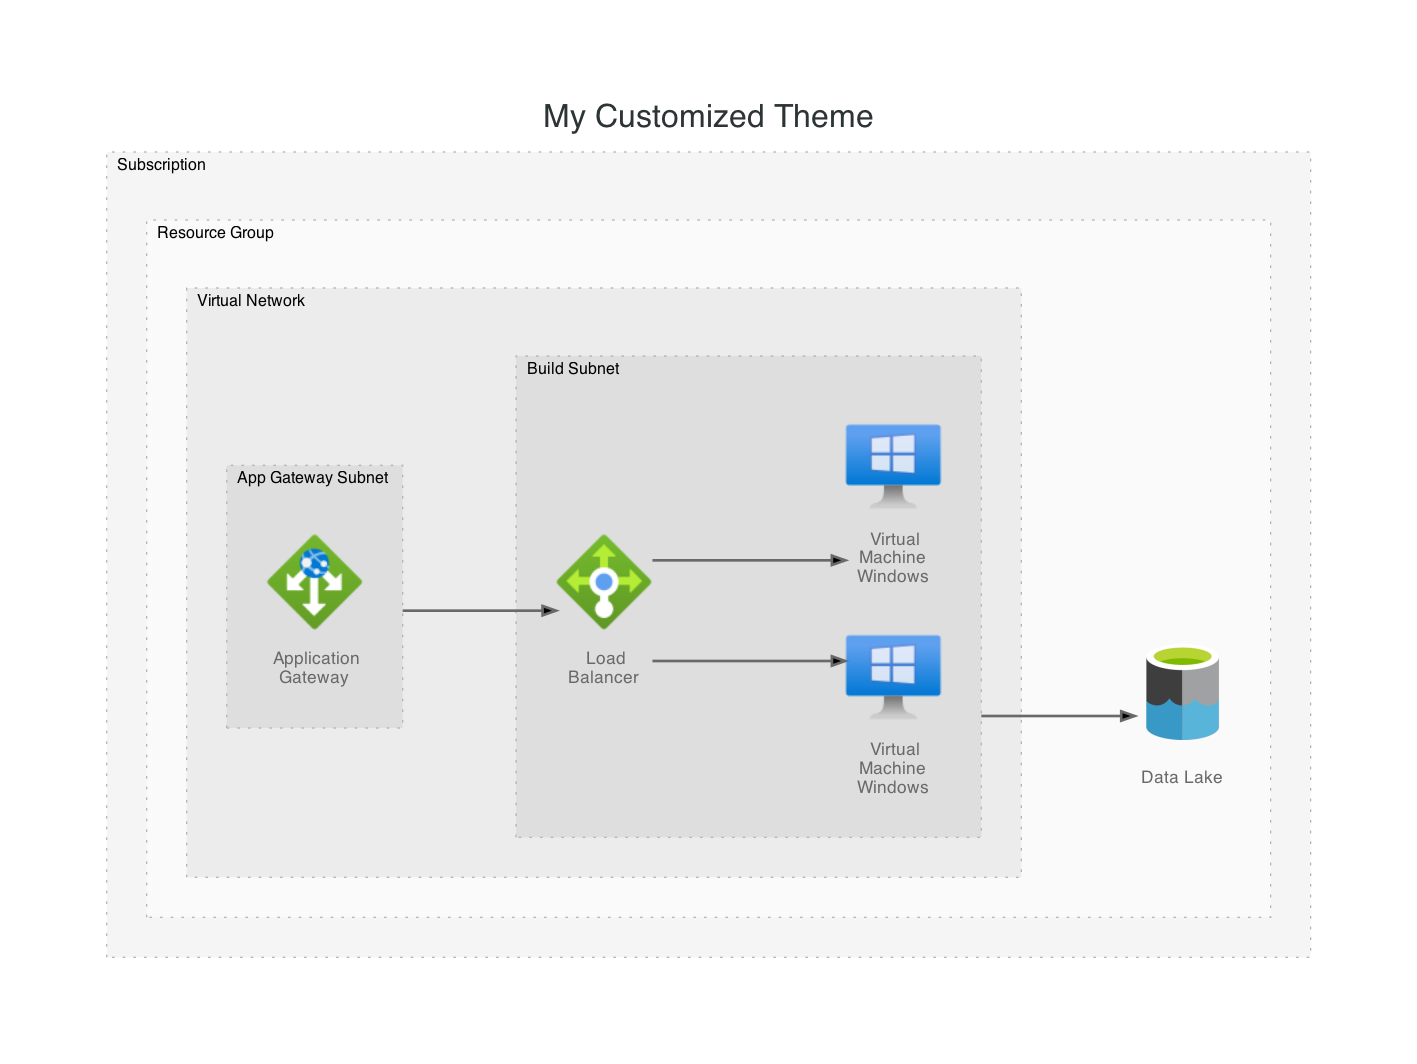
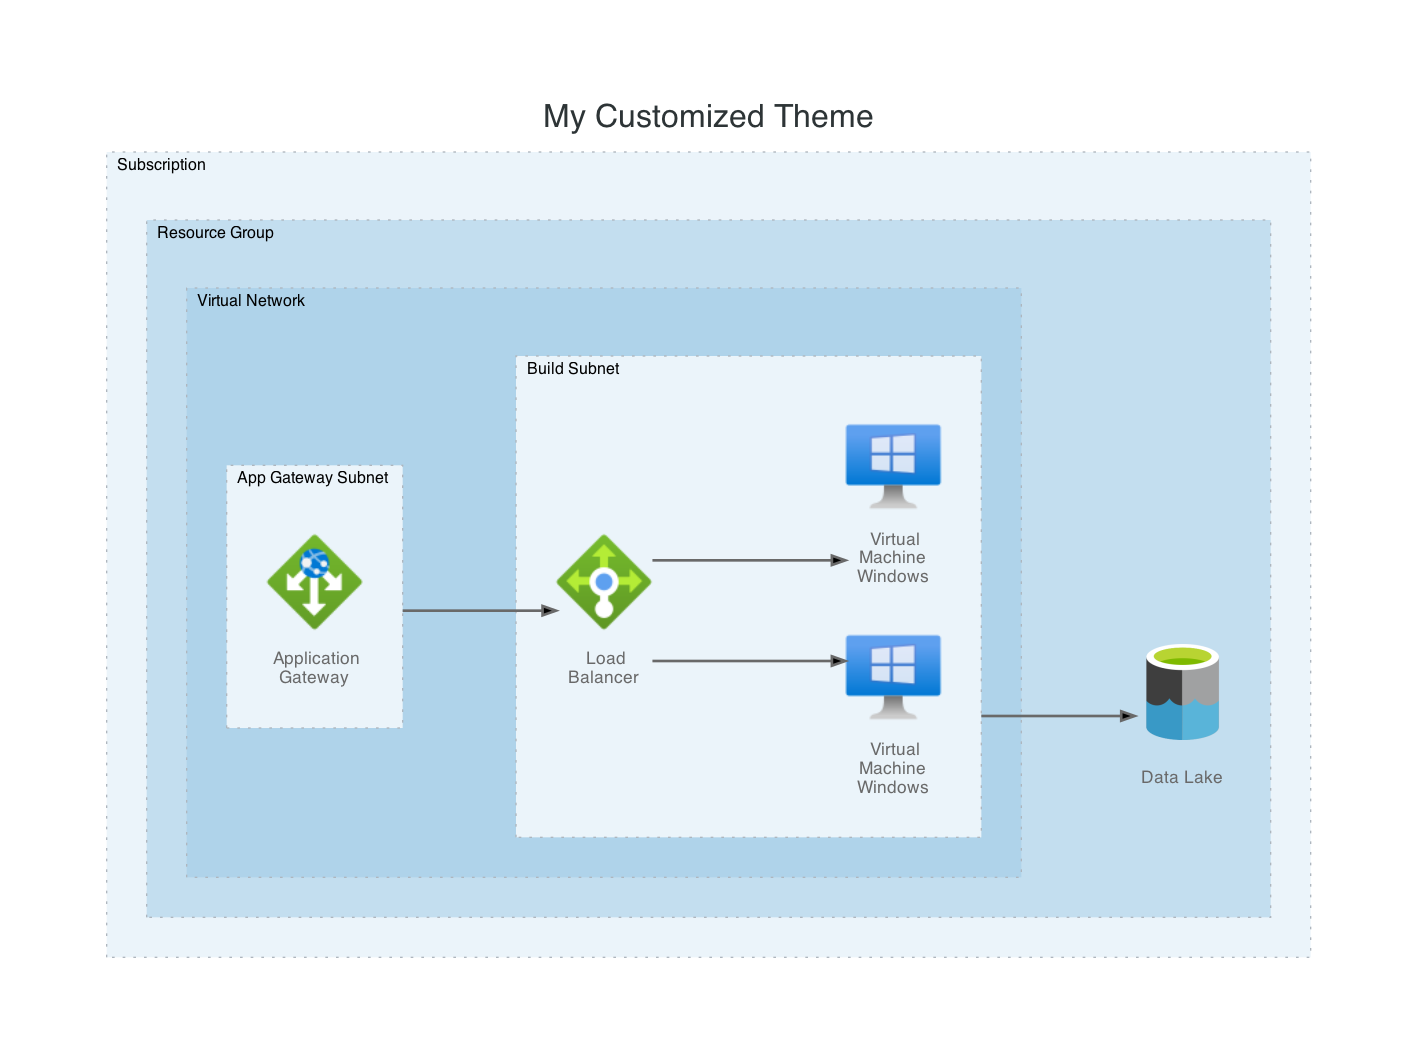
updated readme

diff --git a/examples/step-2-1.py b/examples/step-2-1.py
@@ -9,21 +9,28 @@ from architectures.providers.azure.networking import ApplicationGateway, LoadBal
 from architectures.providers.azure.compute import VirtualMachineWindows
 from architectures.providers.azure.data import DataLake
 
-# Set the theme
-theme = LightMode()
+# Set the theme and add overrides
+theme = LightMode(
+    graph_attr_overrides={"labeljust":"c", "nodesep":"0.5"}, 
+    cluster_attr_overrides={"style":"dotted"},
+    node_attr_overrides={"fontcolor":"dimgrey"}, 
+    edge_attr_overrides={"color":"dimgrey"},
+    color_overrides=["#EBF4FA" "#D7E9F5", "#C3DEEF", "#AFD3EA"]
+)
 
-with Graph("Basic Architecture", theme=theme):
+with Graph("My Customized Theme", theme=theme):
     with Cluster("Subscription"):
         with Cluster("Resource Group"):
             with Cluster("Virtual Network"):
                 with Cluster("App Gateway Subnet") as app_gateway_subnet:
                     app_gateway = ApplicationGateway()
+                
                 with Cluster("Build Subnet") as build_subnet:
                     load_balancer = LoadBalancer()
                     vm_1 = VirtualMachineWindows()
                     vm_2 = VirtualMachineWindows()
-                with Cluster("Data Tier Subnet") as data_tier_subnet:
-                    data_lake = DataLake()
+                
+            data_lake = DataLake()
 
     Flow([app_gateway_subnet, load_balancer, [vm_1, vm_2]])
     Edge(build_subnet, data_lake)

diff --git a/README.md b/README.md
@@ -45,7 +45,6 @@ There are several types of supported objects in the architectures library.  Thes
 - **Flows** allow users to create a linear flow through a list of **Nodes**, **Clusters**, or **Groups**
 
 The component objects are extended with subclasses that allow for the creation of standard service components from various providers such as Azure, GCP, and AWS.
-
 ## Example
 ### Azure Event Driven Serverless Architecture
 Here is an example that shows how you can create a beautiful diagram using architectures.
@@ -324,13 +323,13 @@ from architectures.providers.azure.networking import ApplicationGateway, LoadBal
 from architectures.providers.azure.compute import VirtualMachineWindows
 from architectures.providers.azure.data import DataLake
 
-# Set the theme
+# Set the theme and add overrides
 theme = LightMode(
     graph_attr_overrides={"labeljust":"c", "nodesep":"0.5"}, 
     cluster_attr_overrides={"style":"dotted"},
     node_attr_overrides={"fontcolor":"dimgrey"}, 
     edge_attr_overrides={"color":"dimgrey"},
-    color_overrides=["#F5F5F5", "#FAFAFA", "#ECECEC", "#DEDEDE"]
+    color_overrides=["#EBF4FA" "#D7E9F5", "#C3DEEF", "#AFD3EA"]
 )
 
 with Graph("My Customized Theme", theme=theme):
